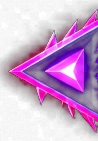
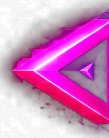
Use uncut spikes and clean up variants

diff --git a/game.js b/game.js
@@ -3,10 +3,8 @@ const ctx = canvas.getContext('2d');
 const container = document.getElementById('game-container');
 
 const spikeVariants = [
-    { src: 'spike_small.png', width: 53, height: 84, scale: 0.9 },
-    { src: 'spike_med.png', width: 61, height: 125, scale: 0.8 },
-    { src: 'spike_large.png', width: 98, height: 141, scale: 0.8 },
-    { src: 'spike_triple.png', width: 71, height: 152, scale: 0.8 }
+    { src: 'spike_small.png', width: 62, height: 96, scale: 0.9 },
+    { src: 'spike_large.png', width: 85, height: 130, scale: 0.8 }
 ].map(v => {
     const img = new Image();
     img.src = v.src;

diff --git a/game.html b/game.html
@@ -60,6 +60,6 @@
         </div>
     </div>
     
-    <script src="game.js?v=6"></script>
+    <script src="game.js?v=7"></script>
 </body>
 </html>